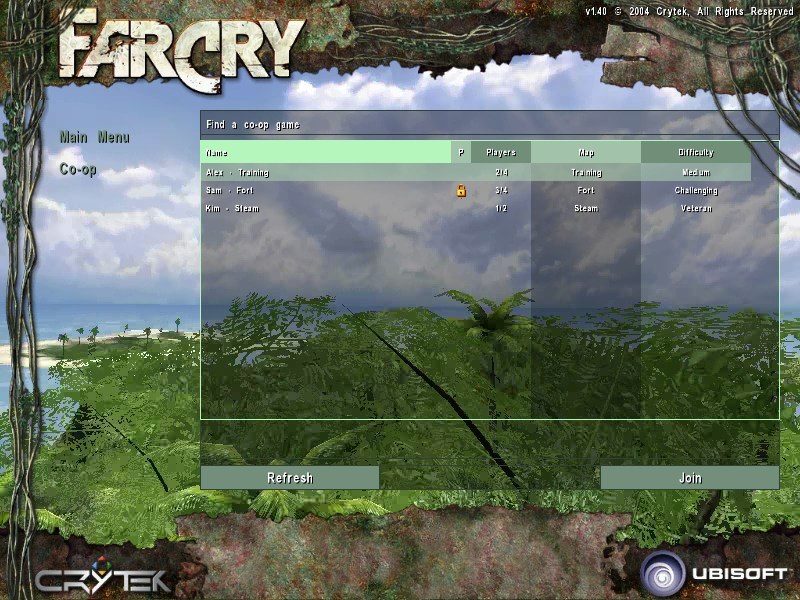
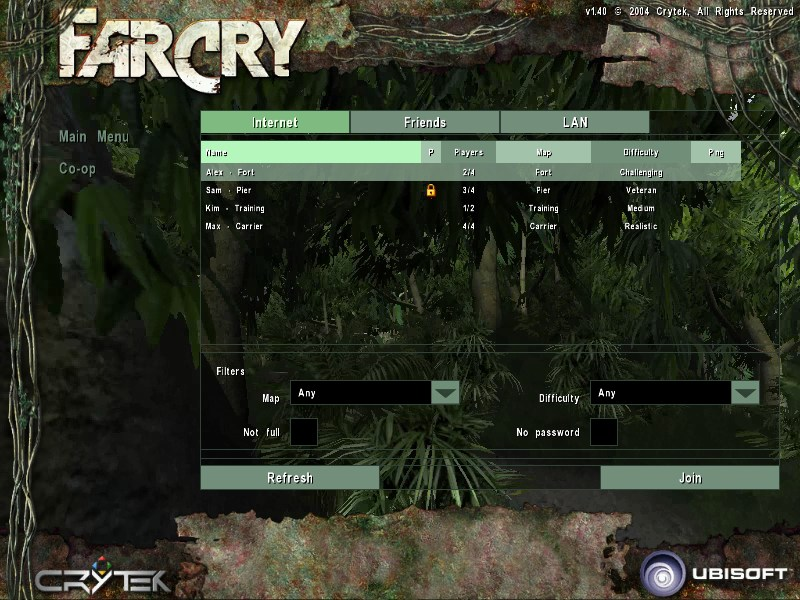
docs: the server browser in the README, findings and changelog

diff --git a/docs/findings.md b/docs/findings.md
@@ -732,3 +732,13 @@
 - **Очередь главного потока** была на 8 строк, а список — до 33 строк за раз; расширена до 48 (`EXQ`).
 - **Наблюдал** (`tests/menu-find.txt`, прогон `.harness/runs/20261115-180822`): второй экземпляр игры под тем же аккаунтом Steam находит лобби хоста (строка «Training | 1/6 | Veteran», с паролем — `pw 1`), входит в него (`in lobby …`), ASI запускает `Game:Connect("127.0.0.1:49011",1)` — но подключение за 120 с не поднимается (игроков 0). **Гипотеза:** Steam не доставляет сообщения `ISteamNetworkingMessages` от аккаунта самому себе; поэтому на одном ПК сценарий проверяет цепочку до `Game:Connect`, а туннель — отдельно (`steam-loop`). Полный вход — только с другом на другом ПК.
 - **Вход, который не дождался сервера,** отменяется: «Refresh» шлёт `coop_steam leave` (ASI перестаёт ждать сервер лобби и, если Steam ещё не ответил на вход, выходит из лобби, когда ответит), а сам ASI бросает ожидание через 60 с (`lobbyWait`). Отмена по уходу с экрана не годится: `Game:Disconnect()` в «Join» сам снимает экран — наблюдал в прогоне `20261115-184638`: «joining» и сразу «join called off». Иначе подключение случилось бы позже, посреди другой игры (ревью). Каждый отказ ASI (`join`, `enterLobby`) зовёт `CoopFind_JoinFailed`; окно об ошибке — только если вход начат с этого экрана (приглашение Steam, отклонённое у хоста, окна не открывает). Не проверено харнесом: на одном аккаунте лобби сразу «up», ждать нечего.
+
+## 2026-11-16 — «Find game» как браузер серверов: Internet, Friends, LAN, фильтры
+
+- **Вкладки.** Internet — `coop_steam find` (публичные лобби мода). Friends — `coop_steam friends`: общий список Steam отдаёт только публичные лобби, лобби «только друзья» находится через друга: друзья (`k_EFriendFlagImmediate`) в Far Cry (AppID 13520) с лобби (`GetFriendGamePlayed`, `FriendGameInfo_t`: лобби по смещению 16), `RequestLobbyData` каждому, ответ — `LobbyDataUpdate_t` (505) или 4 с; в список — только лобби с `fc1coop`. LAN — собственный поиск движка (`Game:RefreshServerList` / `Game:GetServerList`, как `LANServerList.lua`), только игры с типом `COOP` или модом FarCryCoop; вход по адресу (`coop_connect`).
+- **Имя игры в LAN** было пустым: движок отдаёт `sv_name`, по умолчанию пустой у listen-сервера (SDK `GameActionInput.cpp`). `CoopMap` теперь ставит `sv_name` = «<игрок> - <карта>», как имя лобби Steam.
+- **Фильтры** (карта, сложность, «Not full», «No password») только прячут строки, без нового поиска. `ComboBox:Select` из Lua не вызывает `OnChanged` (стоковые экраны зовут его сами) — в сценарии после `Select` вызывается `Show()`.
+- **Lua 4:** `tinsert` пишет счётчик в поле `n`; обход `for i, r in Rows` натыкался на число — обход по индексу (`getn`).
+- **Наблюдал:** `tests/menu-find-lan.txt` — второй экземпляр на том же ПК находит игру в LAN («Jack Carver - Training», `192.168.x.x:49001`) и подключается (игроков 2). `tests/menu-find.txt` — Internet, фильтры, Friends («0 of 89 in a Far Cry lobby» — никто из друзей не хостит), Join до `Game:Connect`.
+- **Ревью** нашло гонки, исправлены: поздний ответ `find` перезаписывал строки Friends (`joinlobby <n>` вошёл бы не в то лобби) — `friendsFind` сбрасывает `g_callList`; таймер LAN срабатывал на другой вкладке; регистр карты из лобби («carrier» не проходил фильтр «Carrier»); очередь строк 48 → 80 (два списка подряд); двойной щелчок по LAN-игре.
+- **Не проверено (нужен второй аккаунт):** что Steam заполняет лобби друга в `GetFriendGamePlayed` и отвечает `RequestLobbyData` для лобби «только друзья»; что лимит игроков (`GetLobbyMemberLimit`) известен для лобби не из списка (иначе «1/0»). Пинга у игр Steam нет.

diff --git a/README.md b/README.md
@@ -22,7 +22,7 @@ Campaign co-op for Far Cry 1 (2004) in the spirit of Sven Co-op and Synergy: the
 
 - **Test harness** (`tools/harness`, Go): starts a listen server and N clients on one PC, drives them through an in-game Lua agent (`scripts/harness/agent.lua`), diffs the server's and clients' entity snapshots (desync detector), catches crashes, error dialogs and hangs, takes minidumps and screenshots. Scenarios are in `tests/`.
 - **Fixes to the base** (in `main`): helicopters sync at once and finish their setup on the client, the map intro waits for all players, weapons dropped by AI appear at the body, level pickups do not fall through the floor in MP, the loadout carries over between maps as in single player and is kept per player (reconnects, saves).
-- **In-game menu instead of the launcher:** Main menu → Co-op (map or save, difficulty, players to wait for, player limit, who can join, password), Find game (Steam lobbies of this mod), Player settings. The name is the Steam name; friends join through Steam with no port forwarding.
+- **In-game menu instead of the launcher:** Main menu → Co-op (map or save, difficulty, players to wait for, player limit, who can join, password), Find game (a server browser: Internet, Friends and LAN tabs, filters by map, difficulty, free slots and password), Player settings. The name is the Steam name; friends join through Steam with no port forwarding.
 - **Install is one folder:** `FarCryCoop` dropped into the game's `Mods` folder, started with `-MOD:FarCryCoop`; the mod's own `CryGame.dll` loads the game's and hooks it, nothing goes into the game's `Bin32`. A test build is packed after every push to `main` (`.github/workflows/package.yml`, [TEST-BUILD.md](games/far-cry/release/TEST-BUILD.md)).
 - Logs, in Russian: [docs/findings.md](docs/findings.md) (findings and measurements), [docs/maps.md](docs/maps.md) (status of the 20 maps), [docs/changelog.md](docs/changelog.md) (session log).
 
@@ -62,7 +62,7 @@ FarCryCoop's code is [MIT](LICENSE). The license of our own code will be chosen 
 
 - **Харнес** (`tools/harness`, Go): запускает listen-сервер и N клиентов на одном ПК, управляет ими через Lua-агента в игре (`scripts/harness/agent.lua`), сравнивает снапшоты сущностей сервера и клиентов (детектор десинка), ловит крэши, диалоги ошибок и зависания, снимает минидампы и скриншоты. Сценарии-тесты в `tests/`.
 - **Фиксы базы** (в `main`): вертолёты синхронизируются сразу и доинициализируются у клиента, интро карты ждёт всех игроков, выпавшее у ИИ оружие появляется у трупа, пикапы уровня не проваливаются в MP, снаряжение переносится между картами как в одиночной игре и хранится по ключу игрока (переподключение, сейвы).
-- **Меню в игре вместо лаунчера:** главное меню → Co-op (карта или сохранение, сложность, сколько ждать игроков, лимит, кто может войти, пароль), Find game (лобби Steam этого мода), Player settings. Ник — имя Steam; друзья заходят через Steam, без проброса портов.
+- **Меню в игре вместо лаунчера:** главное меню → Co-op (карта или сохранение, сложность, сколько ждать игроков, лимит, кто может войти, пароль), Find game (браузер серверов: вкладки Internet, Friends и LAN, фильтры по карте, сложности, свободным местам и паролю), Player settings. Ник — имя Steam; друзья заходят через Steam, без проброса портов.
 - **Установка — одна папка:** `FarCryCoop` в папку `Mods` игры, запуск с `-MOD:FarCryCoop`; своя `CryGame.dll` мода подгружает игровую и ставит хуки, в `Bin32` игры ничего не кладётся. Тестовая сборка собирается после каждого пуша в `main` (`.github/workflows/package.yml`, [TEST-BUILD.ru.md](games/far-cry/release/TEST-BUILD.ru.md)).
 - Журналы: [docs/findings.md](docs/findings.md) (находки и замеры), [docs/maps.md](docs/maps.md) (статус 20 карт), [docs/changelog.md](docs/changelog.md) (журнал сессий).
 

diff --git a/docs/changelog.md b/docs/changelog.md
@@ -4,6 +4,18 @@
 
 ---
 
+## 2026-11-16 — «Find game» как в Source, скриншоты
+
+**Сделано**
+- **Find game — браузер серверов:** вкладки Internet / Friends / LAN, под списком фильтры (карта, сложность, «Not full», «No password»), столбец Ping (LAN). Friends — игры друзей Steam, включая «только друзья» (ASI `coop_steam friends`). LAN — поиск движка, вход по адресу. У игры в LAN теперь есть имя (`sv_name`). Сценарии `menu-find` (расширен), `menu-find-lan` (новый, область `menu`).
+- **README:** скриншоты — двое с M4 на Fort, экран Co-op, Find game (строки для примера).
+
+**Открытые проблемы**
+- Friends проверен только с пустым списком (никто из друзей не хостит); полный вход через Internet/Friends — с другом на другом ПК.
+- Не проверено, что окно стокового «Multiplayer» не всплывает, когда хост закрывает игру (клиент в тесте не переподключился).
+
+---
+
 ## 2026-11-15 (7) — «Find game»
 
 **Сделано**
